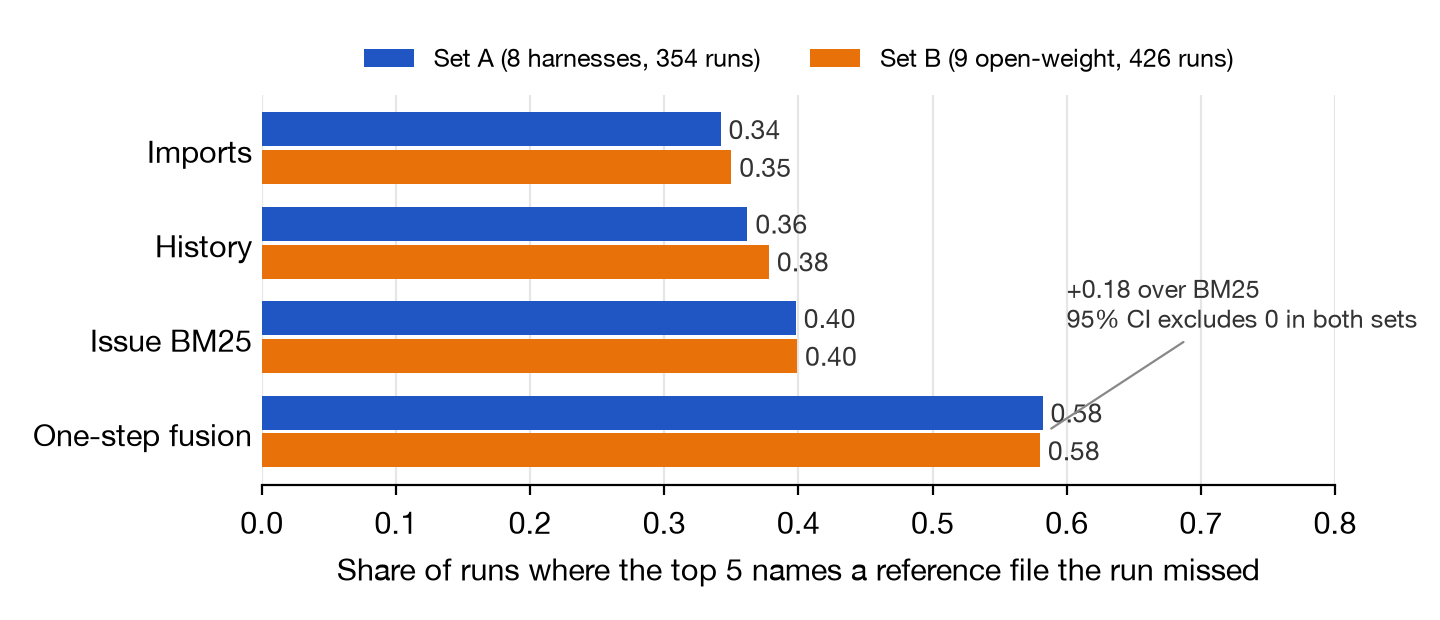
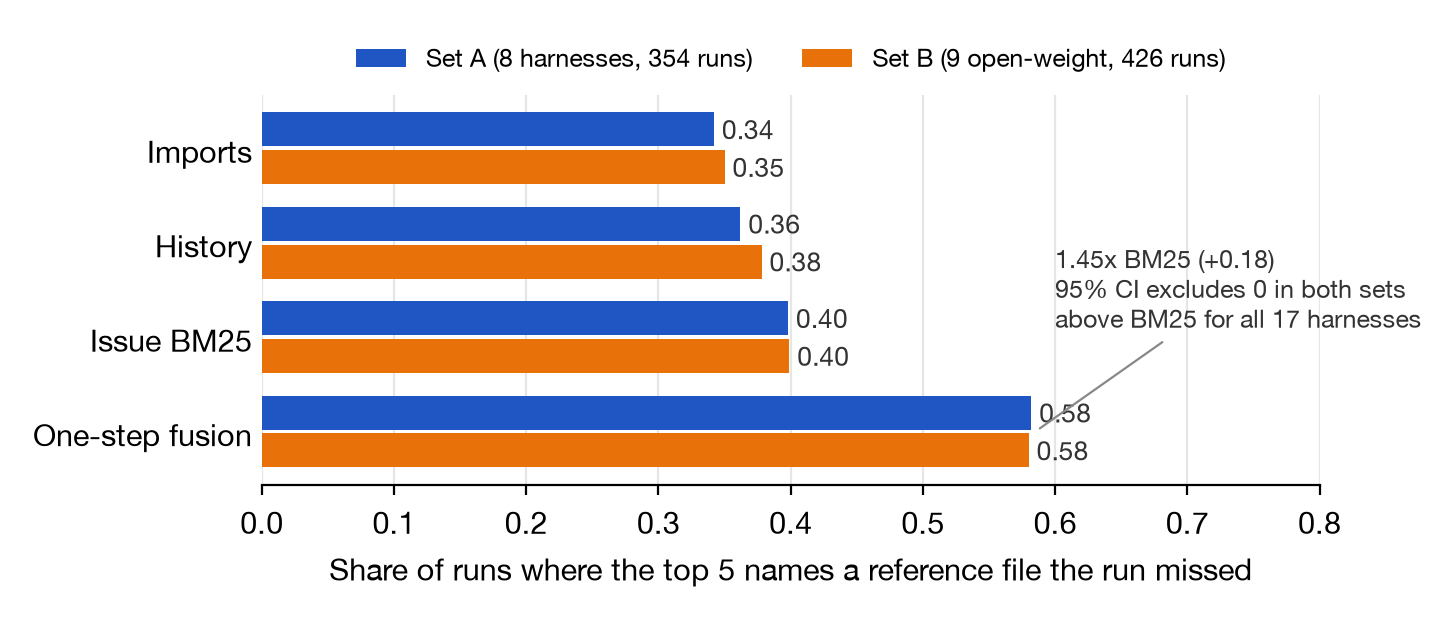
showed relative gain on ranker chart

diff --git a/replay/plot_rankers.py b/replay/plot_rankers.py
@@ -26,7 +26,7 @@ for s in ('top', 'right', 'left'):
 ax.tick_params(axis='y', length=0)
 ax.xaxis.grid(True, color='#e6e6e6', linewidth=0.8)
 ax.set_axisbelow(True)
-ax.annotate('+0.18 over BM25\n95% CI excludes 0 in both sets', xy=(0.585, 3.0), xytext=(0.60, 1.9),
+ax.annotate('1.45x BM25 (+0.18)\n95% CI excludes 0 in both sets\nabove BM25 for all 17 harnesses', xy=(0.585, 3.0), xytext=(0.60, 1.9),
             fontsize=9, color='#333333', ha='left',
             arrowprops=dict(arrowstyle='-', color='#888888', lw=0.8))
 ax.legend(frameon=False, loc='lower center', ncol=2, fontsize=9, bbox_to_anchor=(0.5, 1.0))
